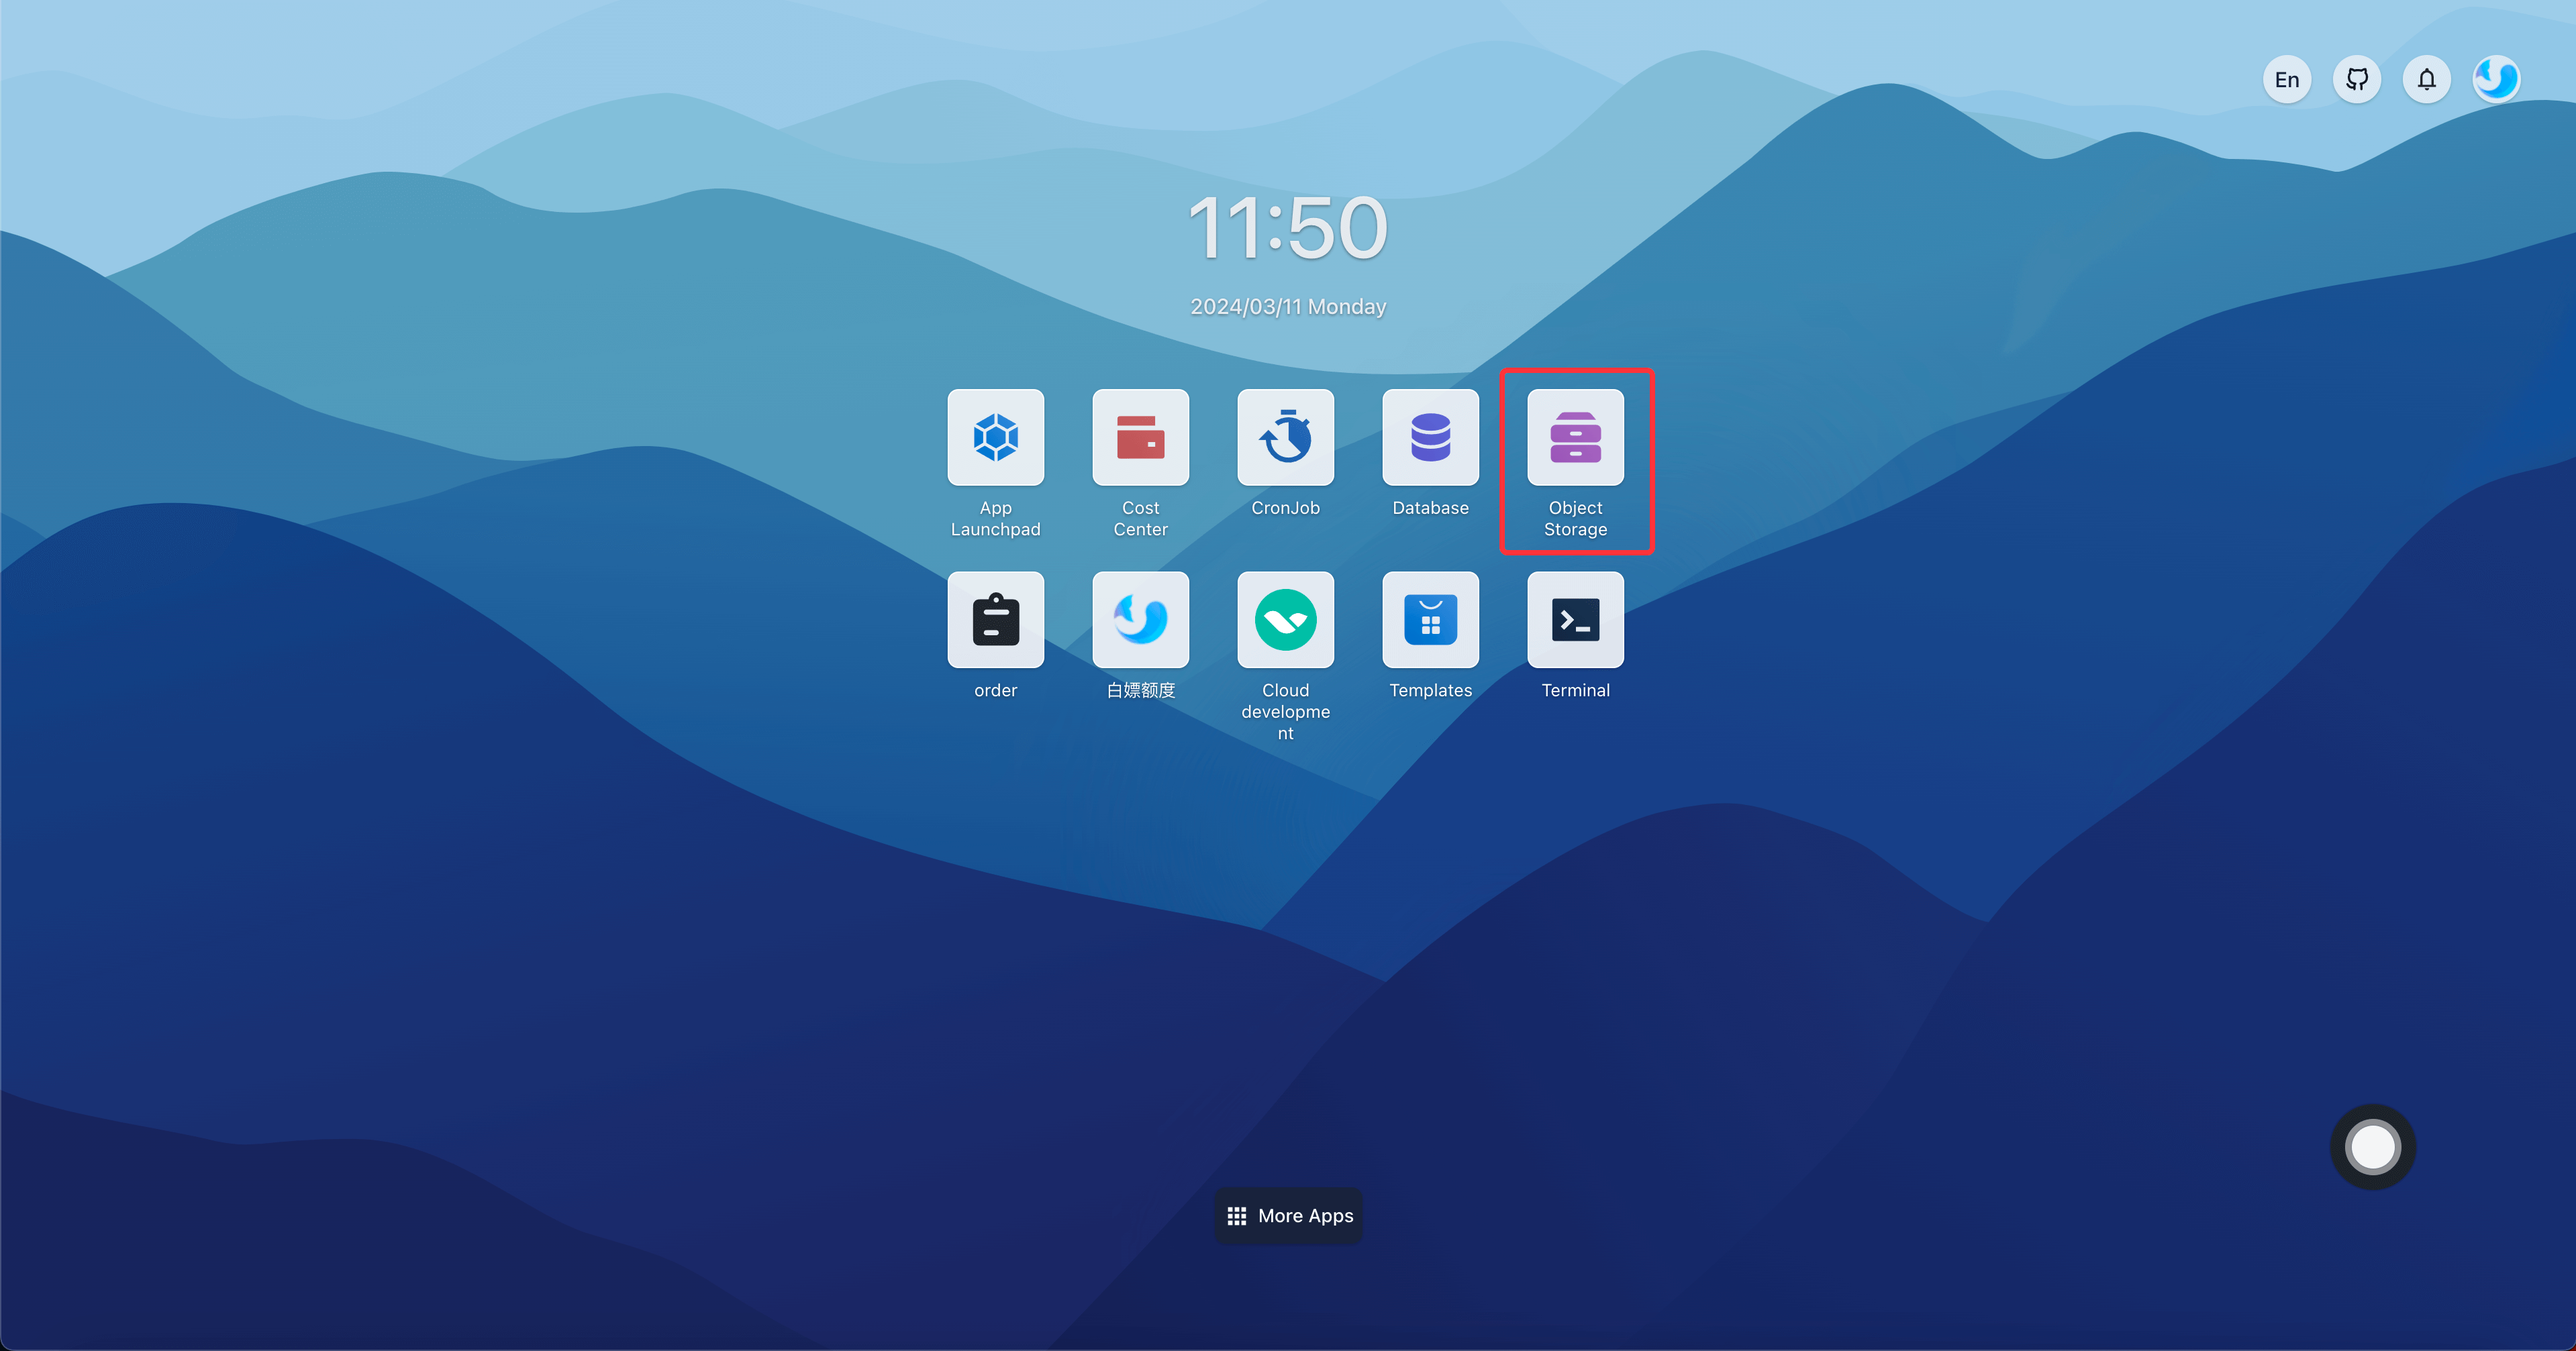
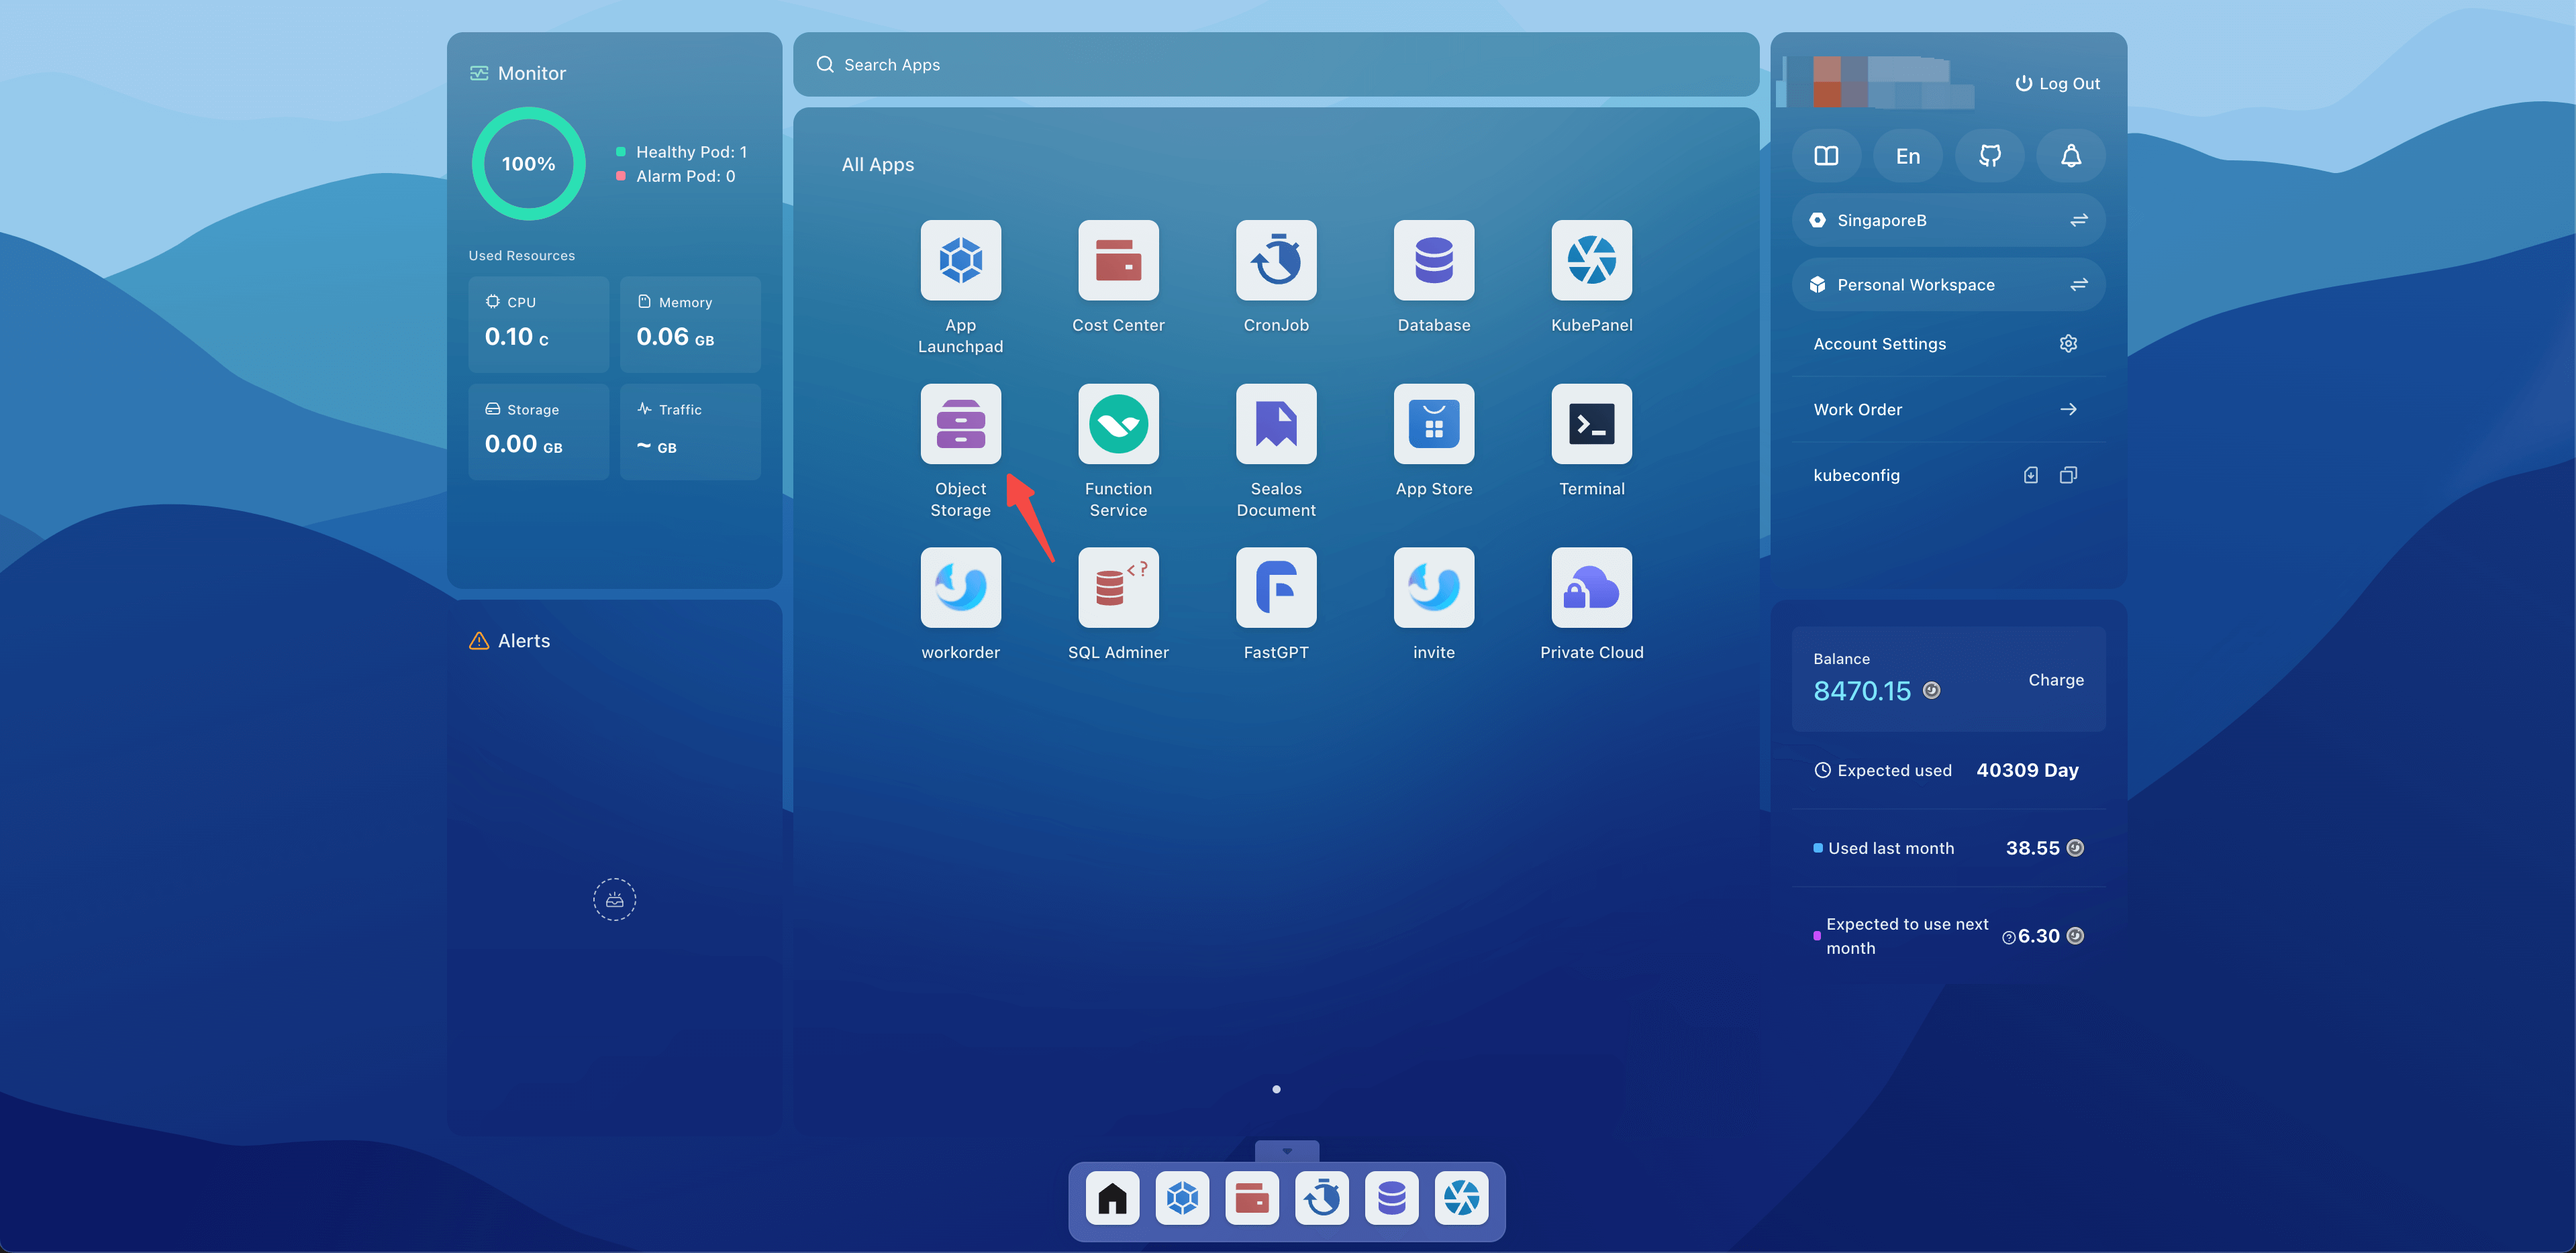
update object storage image

diff --git a/docs/5.0/docs/user-guide/objectstorage/objectstorage.md b/docs/5.0/docs/user-guide/objectstorage/objectstorage.md
@@ -16,7 +16,7 @@ Currently, **Object Storage** has the following features:
 
 ### Upload files to bucket
 
-Go to Object Storage.
+Open the Sealos desktop and click on Object Storage.
 
 ![](./images/1.png)
 
